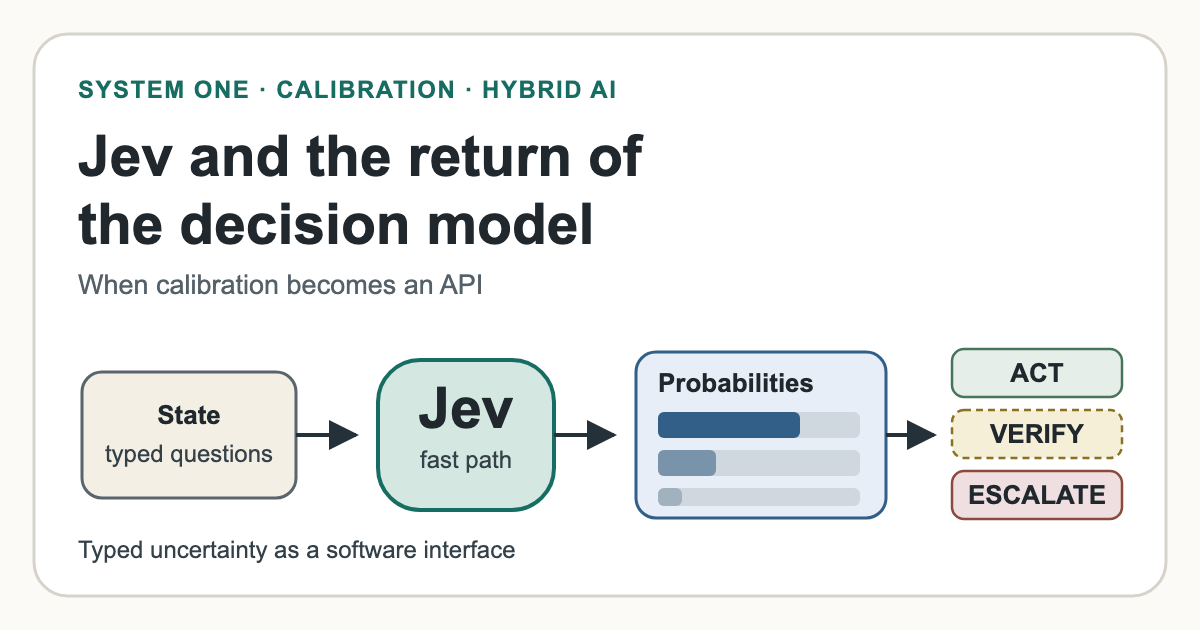
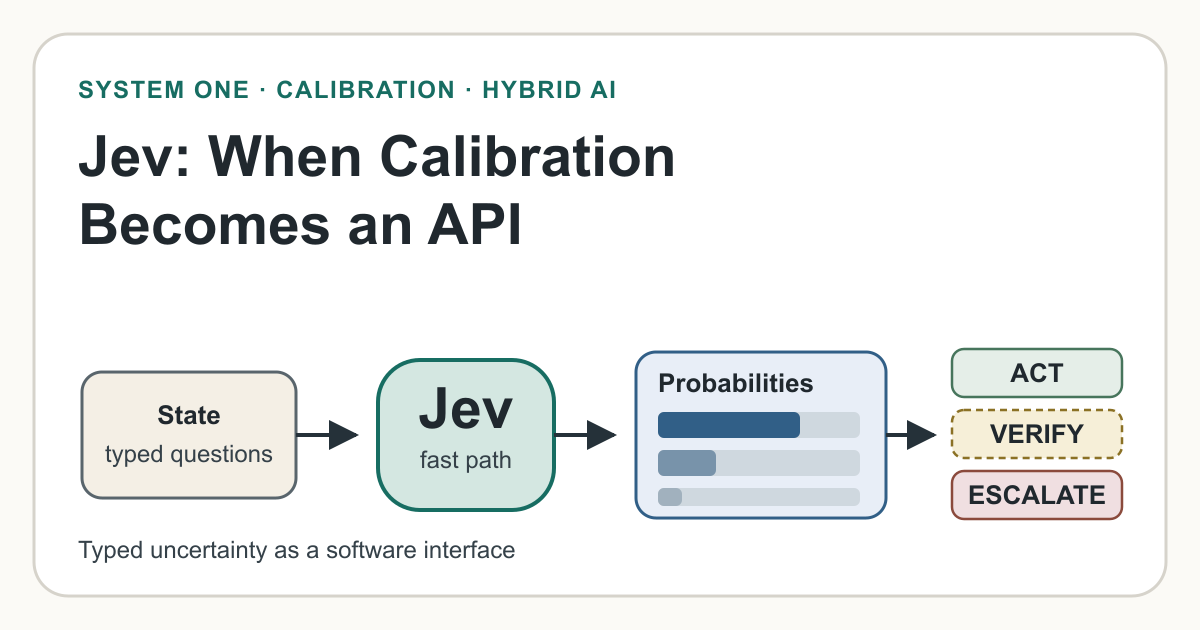
Shorten Jev blog title and remove revision notices

diff --git a/_posts/2026-10-03-jev-calibration-as-an-api.md b/_posts/2026-10-03-jev-calibration-as-an-api.md
@@ -1,7 +1,7 @@
 ---
 layout: post
 published: true
-title: "Jev and the Return of the Decision Model: When Calibration Becomes an API"
+title: "Jev: When Calibration Becomes an API"
 date: 2026-10-03 16:00:00
 author: Jiaxin Zhang
 description: "A living review of Jev and open System One decision models: calibration, RLCD, evidence quality, open models and methods, benchmarks, applications, failure modes, and the boundary between bounded decisions and generative reasoning."
@@ -42,12 +42,6 @@ og_image: https://jxzhangjhu.github.io/assets/img/blog/jev-calibration/og_card.p
 - [References](#references)
 
 ---
-
-> **V2 · literature snapshot: October 4, 2026.** The first version explained the interface and the calibration
-> thesis. This revision adds the fast-moving independent literature, a quality-weighted evidence table, an open
-> model and method map, benchmark and leaderboard guidance, and a broader application catalog. Jev is only weeks
-> old, and nearly all direct studies are unreviewed preprints. Treat every ranking and numerical result as a dated
-> snapshot—not as a permanent ordering.
 
 ## A different kind of AI interface
 
@@ -1571,12 +1565,12 @@ undisclosed implementation details.*
 
 ## How to cite
 
-> Zhang, Jiaxin. (Oct 2026). Jev and the Return of the Decision Model: When Calibration Becomes an API. *Jiaxin
+> Zhang, Jiaxin. (Oct 2026). Jev: When Calibration Becomes an API. *Jiaxin
 > Zhang's Blog.* https://jxzhangjhu.github.io/blog/2026/jev-calibration-as-an-api/
 
 ```bibtex
 @article{zhang2026jevcalibration,
-  title   = "Jev and the Return of the Decision Model: When Calibration Becomes an API",
+  title   = "Jev: When Calibration Becomes an API",
   author  = "Zhang, Jiaxin",
   journal = "Jiaxin Zhang's Blog",
   year    = "2026",
